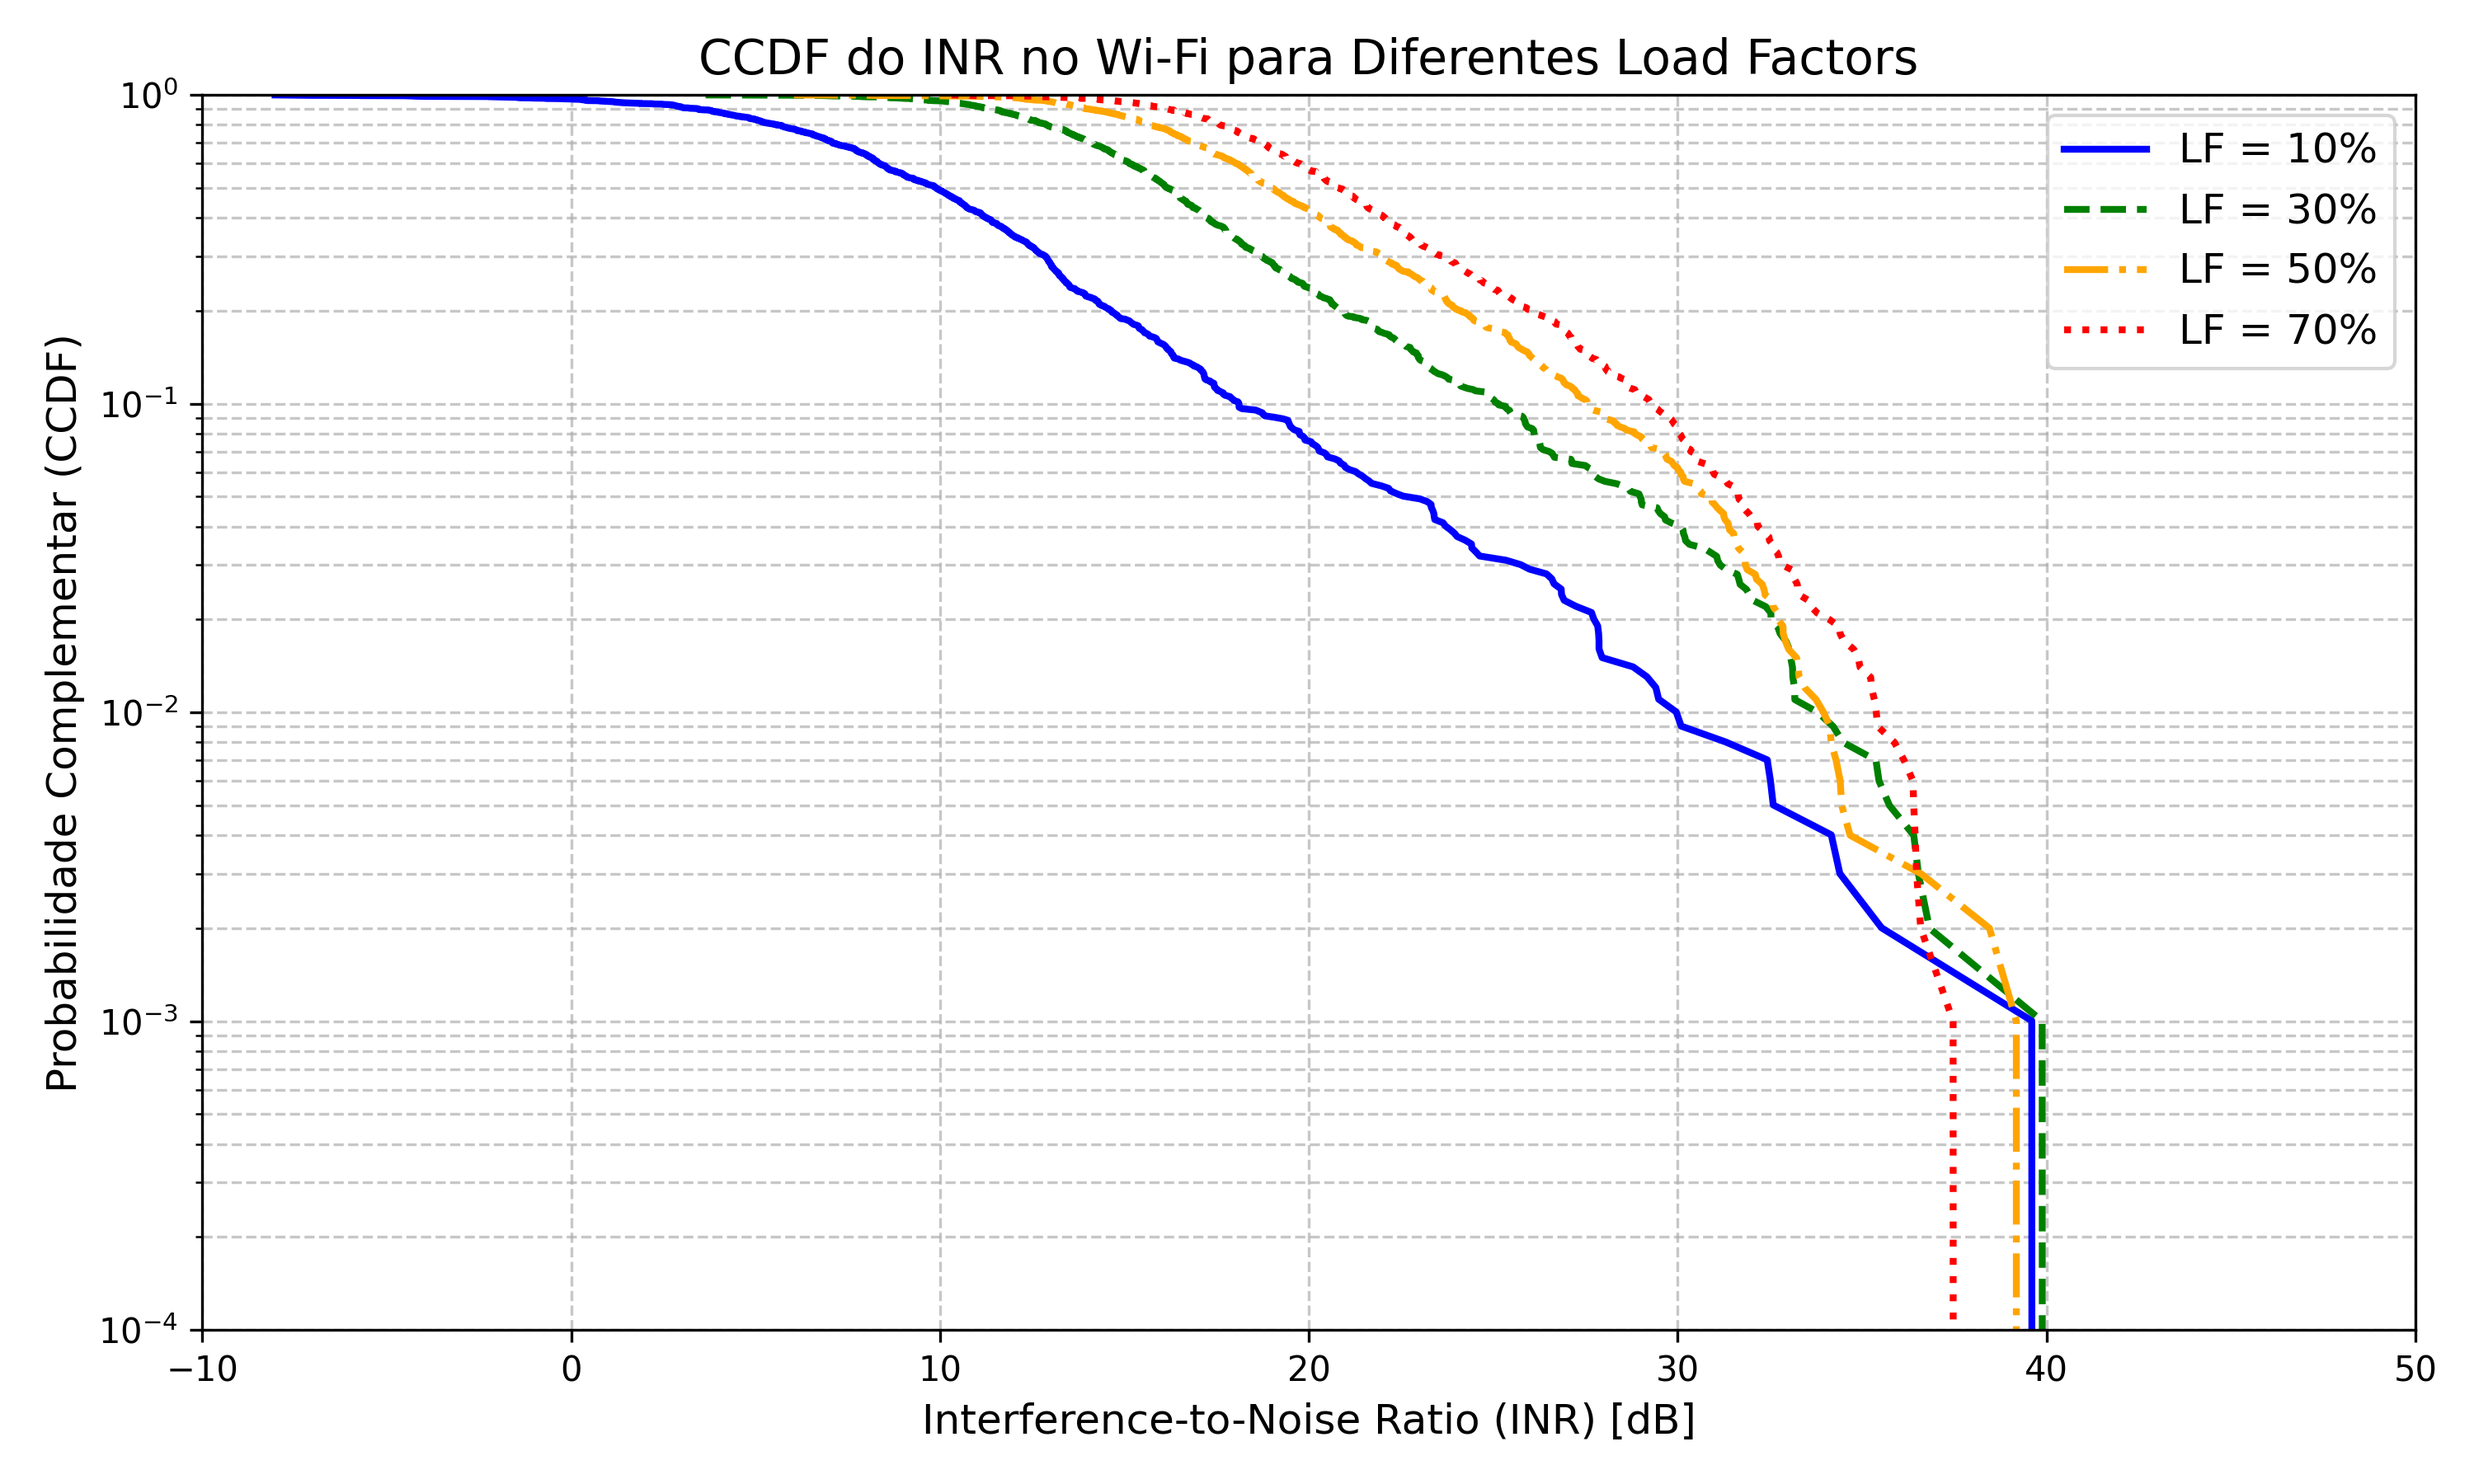
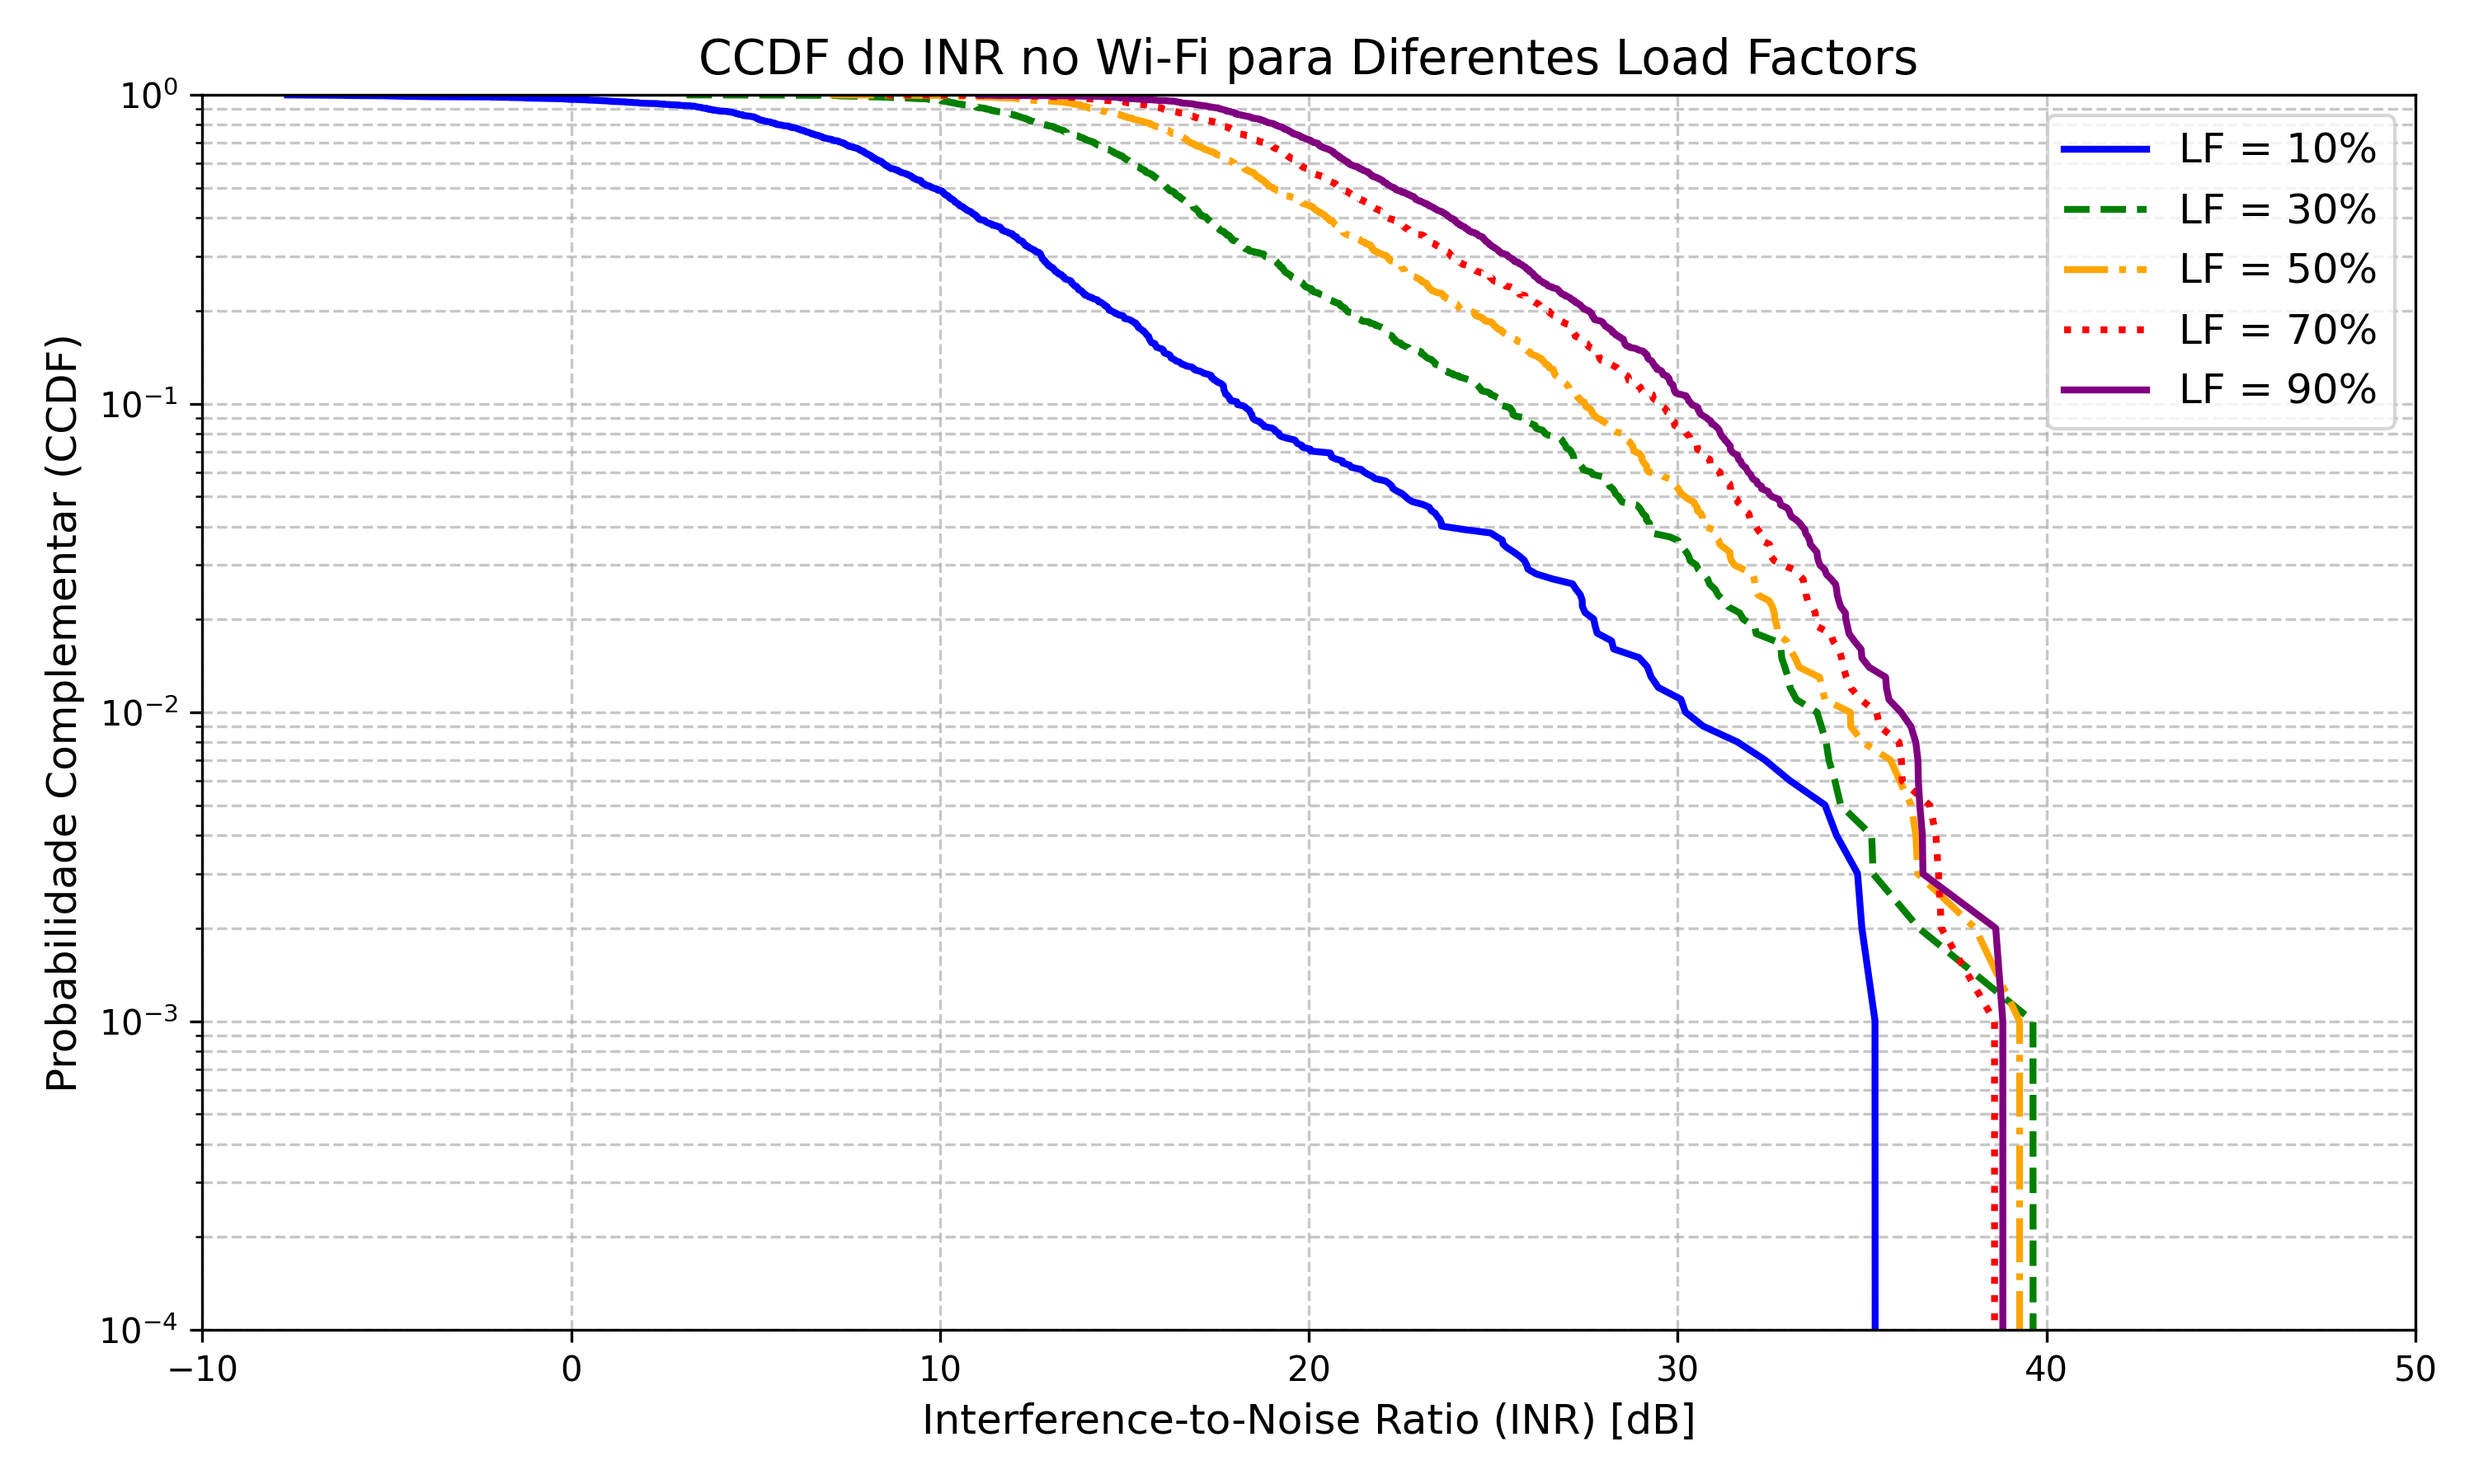
up

diff --git a/sharc/simulation_downlink.py b/sharc/simulation_downlink.py
@@ -97,7 +97,7 @@ class SimulationDownlink(Simulation):
             self.system.run_csma_ca_scheduling(random_number_gen)
             self.system.create_random_links(random_number_gen)
             #self.power_control_wifi(self.parameters.wifi)
-
+            
             self.coupling_loss_wifi = self.calculate_intra_wifi_coupling_loss(
                 self.system.wifi,  self.system.wifi,)
             self.calculate_sinr_wifi()
@@ -998,7 +998,7 @@ class SimulationDownlink(Simulation):
                 )
 
         self.system.wifi.thermal_noise = \
-            10 * np.log10(BOLTZMANN_CONSTANT * self.system.wifi.noise_temperature * 1e3) + \
+            10 * np.log10(BOLTZMANN_CONSTANT * self.param_system.noise_temperature * 1e3) + \
             10 * np.log10(self.system.wifi.bandwidth * 1e6) + \
             self.system.wifi.noise_figure
 

diff --git a/sharc/campaigns/WiFi_Preliminary/plot.py b/sharc/campaigns/WiFi_Preliminary/plot.py
@@ -13,7 +13,7 @@ load_factors = {
     "30%": "LF30",
     "50%": "LF50",
     "70%": "LF70",
-    "100%": "LF100" # Altere para LF_90p se for o seu caso
+    "90%": "LF90" # Altere para LF_90p se for o seu caso
 }
 
 # Nome do arquivo CSV que queremos ler em cada pasta
